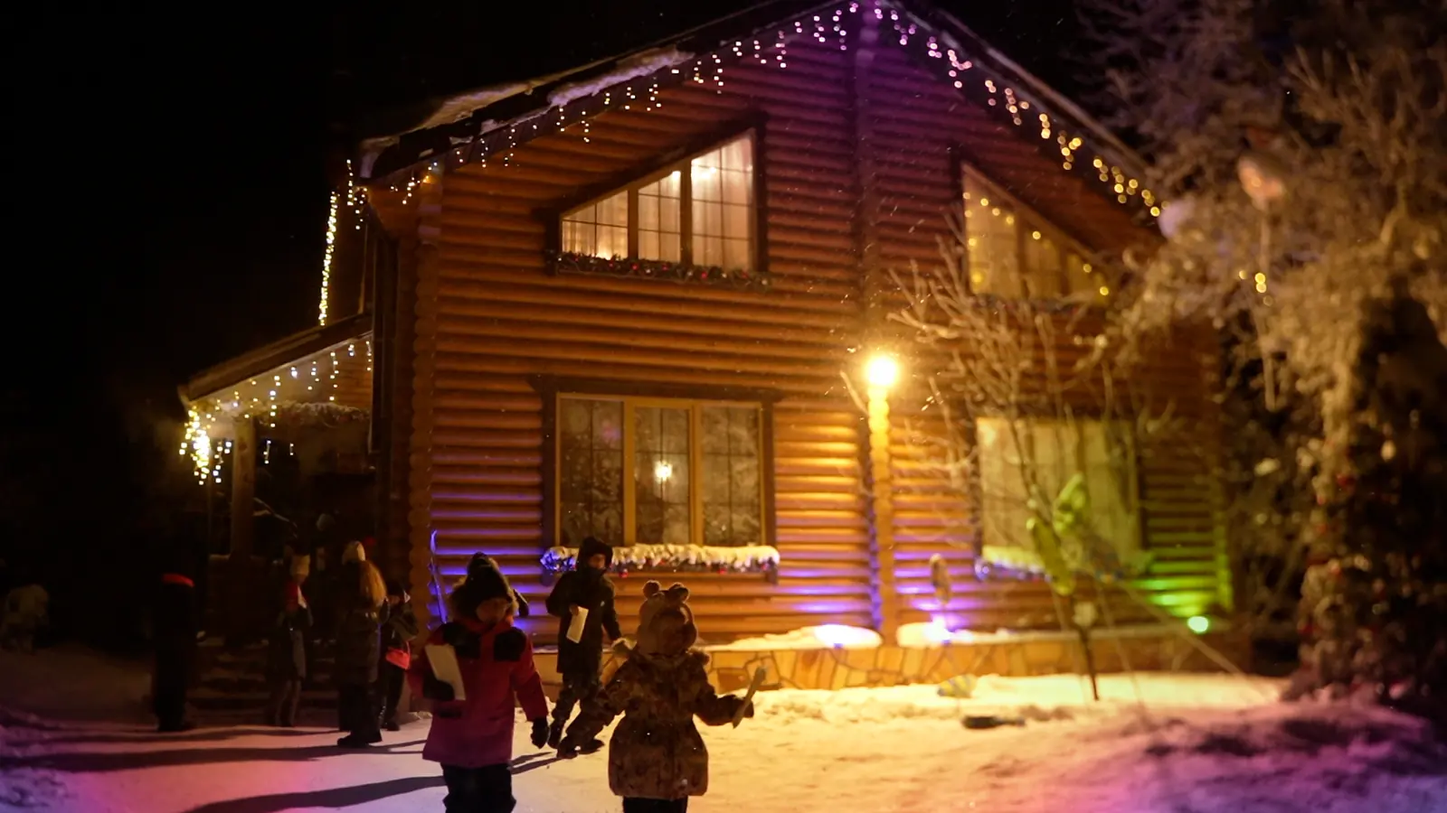
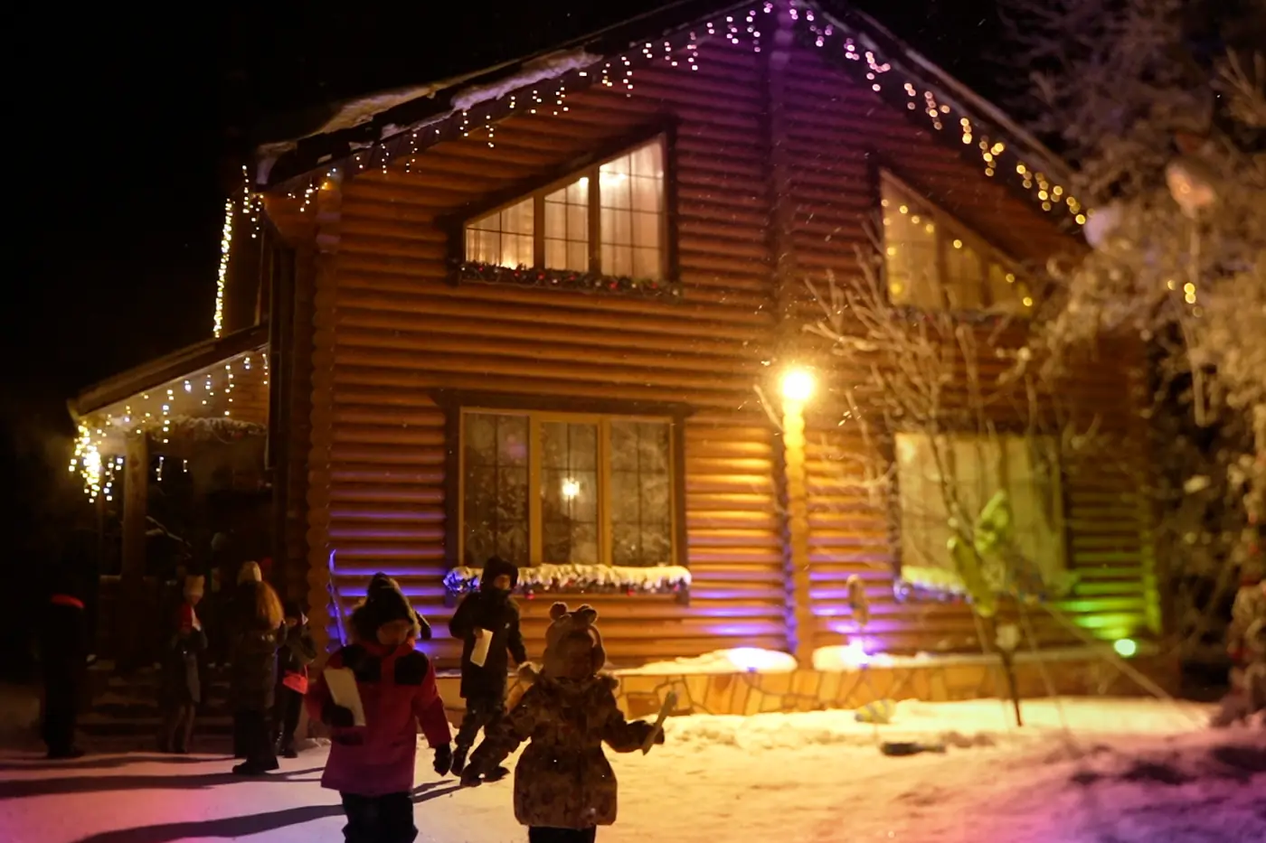
Экран 7: нулевой слайд стал обычной парой
Серёга добавил в папку «0 слайд» вторую фотографию — вывеску «Министерство
новогодних дел» в огнях. Слайд-исключение с единственным кадром больше
не нужен: нулевой идёт как все горизонтальные, по два кадра в ряд,
пропорция 3:2. Кадры — h00 и h00b.

Правила .kr-slide--solo и .kr-shot--solo остались в стилях на случай, если
одиночный слайд понадобится снова; data-fixed у нулевого сохранён, чтобы
телефонная пересборка не растащила его пару по разным слайдам.

Метка версии картинок поднята до v=10.

diff --git a/v2.html b/v2.html
@@ -2674,7 +2674,7 @@ html.zs-lock .nav{margin-right:var(--zs-sbw,0px)}
      прежними — браузер в этом случае показывает старую картинку из кеша,
      и параметр в адресе страницы тут не помогает: он относится только к HTML.
      Поэтому у каждого снимка в адресе стоит метка версии. МЕНЯЯ ФОТОГРАФИИ,
-     ПОДНИМИ ЧИСЛО СРАЗУ У ВСЕХ (v=8 -> v=9) — иначе Серёга увидит старое. -->
+     ПОДНИМИ ЧИСЛО СРАЗУ У ВСЕХ (v=9 -> v=10) — иначе Серёга увидит старое. -->
 <section class="cr kr" id="places" aria-labelledby="krT">
   <!-- Украшение, а не содержание: `aria-hidden` убирает шары из читалки. -->
   <div class="kr-balls" aria-hidden="true">
@@ -2694,72 +2694,73 @@ html.zs-lock .nav{margin-right:var(--zs-sbw,0px)}
 
     <div class="kr-view" id="krView" role="group" aria-roledescription="карусель" aria-label="Фотографии площадки">
       <div class="kr-strip" id="krStrip">
-        <div class="kr-slide kr-slide--hor kr-slide--solo" data-fixed="1">
-          <figure class="kr-shot kr-shot--hor kr-shot--solo" data-th="karus_v/hm00.webp?v=9"><img src="karus_v/h00.webp?v=9" width="1600" height="900" alt="Изба Министерства вечером: гости идут по снегу" loading="eager" decoding="async" sizes="(max-width:767px) 100vw, min(100vw, 1240px)" draggable="false"></figure>
+        <div class="kr-slide kr-slide--hor" data-fixed="1">
+          <figure class="kr-shot kr-shot--hor" data-th="karus_v/hm00.webp?v=10"><img src="karus_v/h00.webp?v=10" width="1400" height="933" alt="Изба Министерства вечером: гости идут по снегу" loading="eager" decoding="async" sizes="(max-width:767px) 100vw, min(50vw, 620px)" draggable="false"></figure>
+          <figure class="kr-shot kr-shot--hor" data-th="karus_v/hm00b.webp?v=10"><img src="karus_v/h00b.webp?v=10" width="1400" height="933" alt="Вывеска «Министерство новогодних дел» в огнях" loading="eager" decoding="async" sizes="(max-width:767px) 100vw, min(50vw, 620px)" draggable="false"></figure>
         </div>
         <div class="kr-slide">
-          <figure class="kr-shot" data-th="karus_v/m01.webp?v=9"><img src="karus_v/v01.webp?v=9" width="820" height="1230" alt="Изба в гирляндах: ёлка и скамейка у входа" loading="eager" decoding="async" sizes="(max-width:767px) 45vw, min(32vw, 400px)" draggable="false"></figure>
-          <figure class="kr-shot" data-th="karus_v/m02.webp?v=9"><img src="karus_v/v02.webp?v=9" width="820" height="1230" alt="Заснеженный двор с ёлками и снеговиком" loading="eager" decoding="async" sizes="(max-width:767px) 45vw, min(32vw, 400px)" draggable="false"></figure>
-          <figure class="kr-shot" data-th="karus_v/m03.webp?v=9"><img src="karus_v/v03.webp?v=9" width="820" height="1230" alt="Вывеска Министерства новогодних дел под гирляндами" loading="eager" decoding="async" sizes="(max-width:767px) 45vw, min(32vw, 400px)" draggable="false"></figure>
+          <figure class="kr-shot" data-th="karus_v/m01.webp?v=10"><img src="karus_v/v01.webp?v=10" width="820" height="1230" alt="Изба в гирляндах: ёлка и скамейка у входа" loading="lazy" decoding="async" sizes="(max-width:767px) 45vw, min(32vw, 400px)" draggable="false"></figure>
+          <figure class="kr-shot" data-th="karus_v/m02.webp?v=10"><img src="karus_v/v02.webp?v=10" width="820" height="1230" alt="Заснеженный двор с ёлками и снеговиком" loading="lazy" decoding="async" sizes="(max-width:767px) 45vw, min(32vw, 400px)" draggable="false"></figure>
+          <figure class="kr-shot" data-th="karus_v/m03.webp?v=10"><img src="karus_v/v03.webp?v=10" width="820" height="1230" alt="Вывеска Министерства новогодних дел под гирляндами" loading="lazy" decoding="async" sizes="(max-width:767px) 45vw, min(32vw, 400px)" draggable="false"></figure>
         </div>
         <div class="kr-slide">
-          <figure class="kr-shot" data-th="karus_v/m04.webp?v=9"><img src="karus_v/v04.webp?v=9" width="820" height="1230" alt="Гости у избы в вечерних огнях" loading="lazy" decoding="async" sizes="(max-width:767px) 45vw, min(32vw, 400px)" draggable="false"></figure>
-          <figure class="kr-shot" data-th="karus_v/m05.webp?v=9"><img src="karus_v/v05.webp?v=9" width="820" height="1230" alt="Ёлка у камина Министерства" loading="lazy" decoding="async" sizes="(max-width:767px) 45vw, min(32vw, 400px)" draggable="false"></figure>
-          <figure class="kr-shot" data-th="karus_v/m06.webp?v=9"><img src="karus_v/v06.webp?v=9" width="820" height="1230" alt="Зал со свечами перед началом" loading="lazy" decoding="async" sizes="(max-width:767px) 45vw, min(32vw, 400px)" draggable="false"></figure>
+          <figure class="kr-shot" data-th="karus_v/m04.webp?v=10"><img src="karus_v/v04.webp?v=10" width="820" height="1230" alt="Гости у избы в вечерних огнях" loading="lazy" decoding="async" sizes="(max-width:767px) 45vw, min(32vw, 400px)" draggable="false"></figure>
+          <figure class="kr-shot" data-th="karus_v/m05.webp?v=10"><img src="karus_v/v05.webp?v=10" width="820" height="1230" alt="Ёлка у камина Министерства" loading="lazy" decoding="async" sizes="(max-width:767px) 45vw, min(32vw, 400px)" draggable="false"></figure>
+          <figure class="kr-shot" data-th="karus_v/m06.webp?v=10"><img src="karus_v/v06.webp?v=10" width="820" height="1230" alt="Зал со свечами перед началом" loading="lazy" decoding="async" sizes="(max-width:767px) 45vw, min(32vw, 400px)" draggable="false"></figure>
         </div>
         <div class="kr-slide kr-slide--hor">
-          <figure class="kr-shot kr-shot--hor" data-th="karus_v/hm03.webp?v=9"><img src="karus_v/h03.webp?v=9" width="1400" height="933" alt="Стена писем Деду Морозу при свечах" loading="lazy" decoding="async" sizes="(max-width:767px) 100vw, min(50vw, 620px)" draggable="false"></figure>
-          <figure class="kr-shot kr-shot--hor" data-th="karus_v/hm04.webp?v=9"><img src="karus_v/h04.webp?v=9" width="1400" height="933" alt="Кабинет Министерства: полки, карты и письма" loading="lazy" decoding="async" sizes="(max-width:767px) 100vw, min(50vw, 620px)" draggable="false"></figure>
+          <figure class="kr-shot kr-shot--hor" data-th="karus_v/hm03.webp?v=10"><img src="karus_v/h03.webp?v=10" width="1400" height="933" alt="Стена писем Деду Морозу при свечах" loading="lazy" decoding="async" sizes="(max-width:767px) 100vw, min(50vw, 620px)" draggable="false"></figure>
+          <figure class="kr-shot kr-shot--hor" data-th="karus_v/hm04.webp?v=10"><img src="karus_v/h04.webp?v=10" width="1400" height="933" alt="Кабинет Министерства: полки, карты и письма" loading="lazy" decoding="async" sizes="(max-width:767px) 100vw, min(50vw, 620px)" draggable="false"></figure>
         </div>
         <div class="kr-slide kr-slide--hor">
-          <figure class="kr-shot kr-shot--hor" data-th="karus_v/hm01.webp?v=9"><img src="karus_v/h01.webp?v=9" width="1400" height="933" alt="Дом и дерево в цветной иллюминации" loading="lazy" decoding="async" sizes="(max-width:767px) 100vw, min(50vw, 620px)" draggable="false"></figure>
-          <figure class="kr-shot kr-shot--hor" data-th="karus_v/hm02.webp?v=9"><img src="karus_v/h02.webp?v=9" width="1400" height="933" alt="Ночной двор с подсветкой и фигурой у входа" loading="lazy" decoding="async" sizes="(max-width:767px) 100vw, min(50vw, 620px)" draggable="false"></figure>
+          <figure class="kr-shot kr-shot--hor" data-th="karus_v/hm01.webp?v=10"><img src="karus_v/h01.webp?v=10" width="1400" height="933" alt="Дом и дерево в цветной иллюминации" loading="lazy" decoding="async" sizes="(max-width:767px) 100vw, min(50vw, 620px)" draggable="false"></figure>
+          <figure class="kr-shot kr-shot--hor" data-th="karus_v/hm02.webp?v=10"><img src="karus_v/h02.webp?v=10" width="1400" height="933" alt="Ночной двор с подсветкой и фигурой у входа" loading="lazy" decoding="async" sizes="(max-width:767px) 100vw, min(50vw, 620px)" draggable="false"></figure>
         </div>
         <div class="kr-slide">
-          <figure class="kr-shot" data-th="karus_v/m07.webp?v=9"><img src="karus_v/v07.webp?v=9" width="820" height="1230" alt="Ёлка с игрушками и карамельными тростями" loading="lazy" decoding="async" sizes="(max-width:767px) 45vw, min(32vw, 400px)" draggable="false"></figure>
-          <figure class="kr-shot" data-th="karus_v/m08.webp?v=9"><img src="karus_v/v08.webp?v=9" width="820" height="1230" alt="Светящийся механизм в зелёном неоне" loading="lazy" decoding="async" sizes="(max-width:767px) 45vw, min(32vw, 400px)" draggable="false"></figure>
-          <figure class="kr-shot" data-th="karus_v/m09.webp?v=9"><img src="karus_v/v09.webp?v=9" width="820" height="1230" alt="Камин и куклы в тёплой комнате" loading="lazy" decoding="async" sizes="(max-width:767px) 45vw, min(32vw, 400px)" draggable="false"></figure>
+          <figure class="kr-shot" data-th="karus_v/m07.webp?v=10"><img src="karus_v/v07.webp?v=10" width="820" height="1230" alt="Ёлка с игрушками и карамельными тростями" loading="lazy" decoding="async" sizes="(max-width:767px) 45vw, min(32vw, 400px)" draggable="false"></figure>
+          <figure class="kr-shot" data-th="karus_v/m08.webp?v=10"><img src="karus_v/v08.webp?v=10" width="820" height="1230" alt="Светящийся механизм в зелёном неоне" loading="lazy" decoding="async" sizes="(max-width:767px) 45vw, min(32vw, 400px)" draggable="false"></figure>
+          <figure class="kr-shot" data-th="karus_v/m09.webp?v=10"><img src="karus_v/v09.webp?v=10" width="820" height="1230" alt="Камин и куклы в тёплой комнате" loading="lazy" decoding="async" sizes="(max-width:767px) 45vw, min(32vw, 400px)" draggable="false"></figure>
         </div>
         <div class="kr-slide">
-          <figure class="kr-shot" data-th="karus_v/m10.webp?v=9"><img src="karus_v/v10.webp?v=9" width="820" height="1230" alt="Пульт с экранами в бревенчатом зале" loading="lazy" decoding="async" sizes="(max-width:767px) 45vw, min(32vw, 400px)" draggable="false"></figure>
-          <figure class="kr-shot" data-th="karus_v/m11.webp?v=9"><img src="karus_v/v11.webp?v=9" width="820" height="1230" alt="Портреты в галерее Министерства" loading="lazy" decoding="async" sizes="(max-width:767px) 45vw, min(32vw, 400px)" draggable="false"></figure>
-          <figure class="kr-shot" data-th="karus_v/m12.webp?v=9"><img src="karus_v/v12.webp?v=9" width="820" height="1230" alt="Пульт с датами и кнопками" loading="lazy" decoding="async" sizes="(max-width:767px) 45vw, min(32vw, 400px)" draggable="false"></figure>
+          <figure class="kr-shot" data-th="karus_v/m10.webp?v=10"><img src="karus_v/v10.webp?v=10" width="820" height="1230" alt="Пульт с экранами в бревенчатом зале" loading="lazy" decoding="async" sizes="(max-width:767px) 45vw, min(32vw, 400px)" draggable="false"></figure>
+          <figure class="kr-shot" data-th="karus_v/m11.webp?v=10"><img src="karus_v/v11.webp?v=10" width="820" height="1230" alt="Портреты в галерее Министерства" loading="lazy" decoding="async" sizes="(max-width:767px) 45vw, min(32vw, 400px)" draggable="false"></figure>
+          <figure class="kr-shot" data-th="karus_v/m12.webp?v=10"><img src="karus_v/v12.webp?v=10" width="820" height="1230" alt="Пульт с датами и кнопками" loading="lazy" decoding="async" sizes="(max-width:767px) 45vw, min(32vw, 400px)" draggable="false"></figure>
         </div>
         <div class="kr-slide">
-          <figure class="kr-shot" data-th="karus_v/m13.webp?v=9"><img src="karus_v/v13.webp?v=9" width="820" height="1230" alt="Полка с книгами и керосиновой лампой" loading="lazy" decoding="async" sizes="(max-width:767px) 45vw, min(32vw, 400px)" draggable="false"></figure>
-          <figure class="kr-shot" data-th="karus_v/m14.webp?v=9"><img src="karus_v/v14.webp?v=9" width="820" height="1230" alt="Стена со старыми газетами" loading="lazy" decoding="async" sizes="(max-width:767px) 45vw, min(32vw, 400px)" draggable="false"></figure>
-          <figure class="kr-shot" data-th="karus_v/m15.webp?v=9"><img src="karus_v/v15.webp?v=9" width="820" height="1230" alt="Вырезки и карта на стене" loading="lazy" decoding="async" sizes="(max-width:767px) 45vw, min(32vw, 400px)" draggable="false"></figure>
+          <figure class="kr-shot" data-th="karus_v/m13.webp?v=10"><img src="karus_v/v13.webp?v=10" width="820" height="1230" alt="Полка с книгами и керосиновой лампой" loading="lazy" decoding="async" sizes="(max-width:767px) 45vw, min(32vw, 400px)" draggable="false"></figure>
+          <figure class="kr-shot" data-th="karus_v/m14.webp?v=10"><img src="karus_v/v14.webp?v=10" width="820" height="1230" alt="Стена со старыми газетами" loading="lazy" decoding="async" sizes="(max-width:767px) 45vw, min(32vw, 400px)" draggable="false"></figure>
+          <figure class="kr-shot" data-th="karus_v/m15.webp?v=10"><img src="karus_v/v15.webp?v=10" width="820" height="1230" alt="Вырезки и карта на стене" loading="lazy" decoding="async" sizes="(max-width:767px) 45vw, min(32vw, 400px)" draggable="false"></figure>
         </div>
         <div class="kr-slide kr-slide--hor">
-          <figure class="kr-shot kr-shot--hor" data-th="karus_v/hm05.webp?v=9"><img src="karus_v/h05.webp?v=9" width="1400" height="933" alt="Волшебники встречают гостей на крыльце" loading="lazy" decoding="async" sizes="(max-width:767px) 100vw, min(50vw, 620px)" draggable="false"></figure>
-          <figure class="kr-shot kr-shot--hor" data-th="karus_v/hm06.webp?v=9"><img src="karus_v/h06.webp?v=9" width="1400" height="933" alt="Представление в бревенчатом зале" loading="lazy" decoding="async" sizes="(max-width:767px) 100vw, min(50vw, 620px)" draggable="false"></figure>
+          <figure class="kr-shot kr-shot--hor" data-th="karus_v/hm05.webp?v=10"><img src="karus_v/h05.webp?v=10" width="1400" height="933" alt="Волшебники встречают гостей на крыльце" loading="lazy" decoding="async" sizes="(max-width:767px) 100vw, min(50vw, 620px)" draggable="false"></figure>
+          <figure class="kr-shot kr-shot--hor" data-th="karus_v/hm06.webp?v=10"><img src="karus_v/h06.webp?v=10" width="1400" height="933" alt="Представление в бревенчатом зале" loading="lazy" decoding="async" sizes="(max-width:767px) 100vw, min(50vw, 620px)" draggable="false"></figure>
         </div>
         <div class="kr-slide">
-          <figure class="kr-shot" data-th="karus_v/m16.webp?v=9"><img src="karus_v/v16.webp?v=9" width="820" height="1230" alt="Галерея портретов" loading="lazy" decoding="async" sizes="(max-width:767px) 45vw, min(32vw, 400px)" draggable="false"></figure>
-          <figure class="kr-shot" data-th="karus_v/m17.webp?v=9"><img src="karus_v/v17.webp?v=9" width="820" height="1230" alt="Пульт Министерства новогодних дел" loading="lazy" decoding="async" sizes="(max-width:767px) 45vw, min(32vw, 400px)" draggable="false"></figure>
-          <figure class="kr-shot" data-th="karus_v/m18.webp?v=9"><img src="karus_v/v18.webp?v=9" width="820" height="1230" alt="Дед Мороз читает письмо ребёнку" loading="lazy" decoding="async" sizes="(max-width:767px) 45vw, min(32vw, 400px)" draggable="false"></figure>
+          <figure class="kr-shot" data-th="karus_v/m16.webp?v=10"><img src="karus_v/v16.webp?v=10" width="820" height="1230" alt="Галерея портретов" loading="lazy" decoding="async" sizes="(max-width:767px) 45vw, min(32vw, 400px)" draggable="false"></figure>
+          <figure class="kr-shot" data-th="karus_v/m17.webp?v=10"><img src="karus_v/v17.webp?v=10" width="820" height="1230" alt="Пульт Министерства новогодних дел" loading="lazy" decoding="async" sizes="(max-width:767px) 45vw, min(32vw, 400px)" draggable="false"></figure>
+          <figure class="kr-shot" data-th="karus_v/m18.webp?v=10"><img src="karus_v/v18.webp?v=10" width="820" height="1230" alt="Дед Мороз читает письмо ребёнку" loading="lazy" decoding="async" sizes="(max-width:767px) 45vw, min(32vw, 400px)" draggable="false"></figure>
         </div>
         <div class="kr-slide kr-slide--hor">
-          <figure class="kr-shot kr-shot--hor" data-th="karus_v/hm07.webp?v=9"><img src="karus_v/h07.webp?v=9" width="1400" height="933" alt="Витрина со старыми газетами" loading="lazy" decoding="async" sizes="(max-width:767px) 100vw, min(50vw, 620px)" draggable="false"></figure>
-          <figure class="kr-shot kr-shot--hor" data-th="karus_v/hm08.webp?v=9"><img src="karus_v/h08.webp?v=9" width="1400" height="933" alt="Мастерская: инструменты на стене" loading="lazy" decoding="async" sizes="(max-width:767px) 100vw, min(50vw, 620px)" draggable="false"></figure>
+          <figure class="kr-shot kr-shot--hor" data-th="karus_v/hm07.webp?v=10"><img src="karus_v/h07.webp?v=10" width="1400" height="933" alt="Витрина со старыми газетами" loading="lazy" decoding="async" sizes="(max-width:767px) 100vw, min(50vw, 620px)" draggable="false"></figure>
+          <figure class="kr-shot kr-shot--hor" data-th="karus_v/hm08.webp?v=10"><img src="karus_v/h08.webp?v=10" width="1400" height="933" alt="Мастерская: инструменты на стене" loading="lazy" decoding="async" sizes="(max-width:767px) 100vw, min(50vw, 620px)" draggable="false"></figure>
         </div>
         <div class="kr-slide">
-          <figure class="kr-shot" data-th="karus_v/m19.webp?v=9"><img src="karus_v/v19.webp?v=9" width="820" height="1230" alt="Светящаяся вывеска «Дед Мороз»" loading="lazy" decoding="async" sizes="(max-width:767px) 45vw, min(32vw, 400px)" draggable="false"></figure>
-          <figure class="kr-shot" data-th="karus_v/m20.webp?v=9"><img src="karus_v/v20.webp?v=9" width="820" height="1230" alt="Часовщица встречает гостей" loading="lazy" decoding="async" sizes="(max-width:767px) 45vw, min(32vw, 400px)" draggable="false"></figure>
-          <figure class="kr-shot" data-th="karus_v/m21.webp?v=9"><img src="karus_v/v21.webp?v=9" width="820" height="1230" alt="Письмо Деду Морозу и книги" loading="lazy" decoding="async" sizes="(max-width:767px) 45vw, min(32vw, 400px)" draggable="false"></figure>
+          <figure class="kr-shot" data-th="karus_v/m19.webp?v=10"><img src="karus_v/v19.webp?v=10" width="820" height="1230" alt="Светящаяся вывеска «Дед Мороз»" loading="lazy" decoding="async" sizes="(max-width:767px) 45vw, min(32vw, 400px)" draggable="false"></figure>
+          <figure class="kr-shot" data-th="karus_v/m20.webp?v=10"><img src="karus_v/v20.webp?v=10" width="820" height="1230" alt="Часовщица встречает гостей" loading="lazy" decoding="async" sizes="(max-width:767px) 45vw, min(32vw, 400px)" draggable="false"></figure>
+          <figure class="kr-shot" data-th="karus_v/m21.webp?v=10"><img src="karus_v/v21.webp?v=10" width="820" height="1230" alt="Письмо Деду Морозу и книги" loading="lazy" decoding="async" sizes="(max-width:767px) 45vw, min(32vw, 400px)" draggable="false"></figure>
         </div>
         <div class="kr-slide kr-slide--hor">
-          <figure class="kr-shot kr-shot--hor" data-th="karus_v/hm09.webp?v=9"><img src="karus_v/h09.webp?v=9" width="1400" height="933" alt="Светящийся стол в зелёном неоне" loading="lazy" decoding="async" sizes="(max-width:767px) 100vw, min(50vw, 620px)" draggable="false"></figure>
-          <figure class="kr-shot kr-shot--hor" data-th="karus_v/hm10.webp?v=9"><img src="karus_v/h10.webp?v=9" width="1400" height="933" alt="Зал при свечах в лиловом свете" loading="lazy" decoding="async" sizes="(max-width:767px) 100vw, min(50vw, 620px)" draggable="false"></figure>
+          <figure class="kr-shot kr-shot--hor" data-th="karus_v/hm09.webp?v=10"><img src="karus_v/h09.webp?v=10" width="1400" height="933" alt="Светящийся стол в зелёном неоне" loading="lazy" decoding="async" sizes="(max-width:767px) 100vw, min(50vw, 620px)" draggable="false"></figure>
+          <figure class="kr-shot kr-shot--hor" data-th="karus_v/hm10.webp?v=10"><img src="karus_v/h10.webp?v=10" width="1400" height="933" alt="Зал при свечах в лиловом свете" loading="lazy" decoding="async" sizes="(max-width:767px) 100vw, min(50vw, 620px)" draggable="false"></figure>
         </div>
         <div class="kr-slide">
-          <figure class="kr-shot" data-th="karus_v/m22.webp?v=9"><img src="karus_v/v22.webp?v=9" width="820" height="1230" alt="Зал управления Министерства" loading="lazy" decoding="async" sizes="(max-width:767px) 45vw, min(32vw, 400px)" draggable="false"></figure>
-          <figure class="kr-shot" data-th="karus_v/m23.webp?v=9"><img src="karus_v/v23.webp?v=9" width="820" height="1230" alt="Карамельный мастер-класс" loading="lazy" decoding="async" sizes="(max-width:767px) 45vw, min(32vw, 400px)" draggable="false"></figure>
-          <figure class="kr-shot" data-th="karus_v/m24.webp?v=9"><img src="karus_v/v24.webp?v=9" width="820" height="1230" alt="Пульт и ёлка в бревенчатом зале" loading="lazy" decoding="async" sizes="(max-width:767px) 45vw, min(32vw, 400px)" draggable="false"></figure>
+          <figure class="kr-shot" data-th="karus_v/m22.webp?v=10"><img src="karus_v/v22.webp?v=10" width="820" height="1230" alt="Зал управления Министерства" loading="lazy" decoding="async" sizes="(max-width:767px) 45vw, min(32vw, 400px)" draggable="false"></figure>
+          <figure class="kr-shot" data-th="karus_v/m23.webp?v=10"><img src="karus_v/v23.webp?v=10" width="820" height="1230" alt="Карамельный мастер-класс" loading="lazy" decoding="async" sizes="(max-width:767px) 45vw, min(32vw, 400px)" draggable="false"></figure>
+          <figure class="kr-shot" data-th="karus_v/m24.webp?v=10"><img src="karus_v/v24.webp?v=10" width="820" height="1230" alt="Пульт и ёлка в бревенчатом зале" loading="lazy" decoding="async" sizes="(max-width:767px) 45vw, min(32vw, 400px)" draggable="false"></figure>
         </div>
         <div class="kr-slide kr-slide--hor">
-          <figure class="kr-shot kr-shot--hor" data-th="karus_v/hm11.webp?v=9"><img src="karus_v/h11.webp?v=9" width="1400" height="933" alt="Светящаяся стена под ультрафиолетом" loading="lazy" decoding="async" sizes="(max-width:767px) 100vw, min(50vw, 620px)" draggable="false"></figure>
-          <figure class="kr-shot kr-shot--hor" data-th="karus_v/hm12.webp?v=9"><img src="karus_v/h12.webp?v=9" width="1400" height="933" alt="Общий кадр с Дедом Морозом у ёлки" loading="lazy" decoding="async" sizes="(max-width:767px) 100vw, min(50vw, 620px)" draggable="false"></figure>
+          <figure class="kr-shot kr-shot--hor" data-th="karus_v/hm11.webp?v=10"><img src="karus_v/h11.webp?v=10" width="1400" height="933" alt="Светящаяся стена под ультрафиолетом" loading="lazy" decoding="async" sizes="(max-width:767px) 100vw, min(50vw, 620px)" draggable="false"></figure>
+          <figure class="kr-shot kr-shot--hor" data-th="karus_v/hm12.webp?v=10"><img src="karus_v/h12.webp?v=10" width="1400" height="933" alt="Общий кадр с Дедом Морозом у ёлки" loading="lazy" decoding="async" sizes="(max-width:767px) 100vw, min(50vw, 620px)" draggable="false"></figure>
         </div>
       </div>
 
@@ -2774,43 +2775,44 @@ html.zs-lock .nav{margin-right:var(--zs-sbw,0px)}
     </div>
 
     <div class="kr-thumbs" id="krThumbs" aria-label="Кадры площадки">
-      <button class="kr-th kr-th--hor kr-th--solo is-on" type="button" data-i="0" aria-label="Слайд 1: Изба Министерства вечером: гости идут по снегу"><img src="karus_v/hm00.webp?v=9" width="320" height="180" alt="" loading="eager" decoding="async" draggable="false"></button>
-      <button class="kr-th" type="button" data-i="1" aria-label="Слайд 2: Изба в гирляндах: ёлка и скамейка у входа"><img src="karus_v/m01.webp?v=9" width="220" height="330" alt="" loading="eager" decoding="async" draggable="false"></button>
-      <button class="kr-th" type="button" data-i="1" aria-label="Слайд 2: Заснеженный двор с ёлками и снеговиком"><img src="karus_v/m02.webp?v=9" width="220" height="330" alt="" loading="eager" decoding="async" draggable="false"></button>
-      <button class="kr-th" type="button" data-i="1" aria-label="Слайд 2: Вывеска Министерства новогодних дел под гирляндами"><img src="karus_v/m03.webp?v=9" width="220" height="330" alt="" loading="eager" decoding="async" draggable="false"></button>
-      <button class="kr-th" type="button" data-i="2" aria-label="Слайд 3: Гости у избы в вечерних огнях"><img src="karus_v/m04.webp?v=9" width="220" height="330" alt="" loading="lazy" decoding="async" draggable="false"></button>
-      <button class="kr-th" type="button" data-i="2" aria-label="Слайд 3: Ёлка у камина Министерства"><img src="karus_v/m05.webp?v=9" width="220" height="330" alt="" loading="lazy" decoding="async" draggable="false"></button>
-      <button class="kr-th" type="button" data-i="2" aria-label="Слайд 3: Зал со свечами перед началом"><img src="karus_v/m06.webp?v=9" width="220" height="330" alt="" loading="lazy" decoding="async" draggable="false"></button>
-      <button class="kr-th kr-th--hor" type="button" data-i="3" aria-label="Слайд 4: Стена писем Деду Морозу при свечах"><img src="karus_v/hm03.webp?v=9" width="300" height="200" alt="" loading="lazy" decoding="async" draggable="false"></button>
-      <button class="kr-th kr-th--hor" type="button" data-i="3" aria-label="Слайд 4: Кабинет Министерства: полки, карты и письма"><img src="karus_v/hm04.webp?v=9" width="300" height="200" alt="" loading="lazy" decoding="async" draggable="false"></button>
-      <button class="kr-th kr-th--hor" type="button" data-i="4" aria-label="Слайд 5: Дом и дерево в цветной иллюминации"><img src="karus_v/hm01.webp?v=9" width="300" height="200" alt="" loading="lazy" decoding="async" draggable="false"></button>
-      <button class="kr-th kr-th--hor" type="button" data-i="4" aria-label="Слайд 5: Ночной двор с подсветкой и фигурой у входа"><img src="karus_v/hm02.webp?v=9" width="300" height="200" alt="" loading="lazy" decoding="async" draggable="false"></button>
-      <button class="kr-th" type="button" data-i="5" aria-label="Слайд 6: Ёлка с игрушками и карамельными тростями"><img src="karus_v/m07.webp?v=9" width="220" height="330" alt="" loading="lazy" decoding="async" draggable="false"></button>
-      <button class="kr-th" type="button" data-i="5" aria-label="Слайд 6: Светящийся механизм в зелёном неоне"><img src="karus_v/m08.webp?v=9" width="220" height="330" alt="" loading="lazy" decoding="async" draggable="false"></button>
-      <button class="kr-th" type="button" data-i="5" aria-label="Слайд 6: Камин и куклы в тёплой комнате"><img src="karus_v/m09.webp?v=9" width="220" height="330" alt="" loading="lazy" decoding="async" draggable="false"></button>
-      <button class="kr-th" type="button" data-i="6" aria-label="Слайд 7: Пульт с экранами в бревенчатом зале"><img src="karus_v/m10.webp?v=9" width="220" height="330" alt="" loading="lazy" decoding="async" draggable="false"></button>
-      <button class="kr-th" type="button" data-i="6" aria-label="Слайд 7: Портреты в галерее Министерства"><img src="karus_v/m11.webp?v=9" width="220" height="330" alt="" loading="lazy" decoding="async" draggable="false"></button>
-      <button class="kr-th" type="button" data-i="6" aria-label="Слайд 7: Пульт с датами и кнопками"><img src="karus_v/m12.webp?v=9" width="220" height="330" alt="" loading="lazy" decoding="async" draggable="false"></button>
-      <button class="kr-th" type="button" data-i="7" aria-label="Слайд 8: Полка с книгами и керосиновой лампой"><img src="karus_v/m13.webp?v=9" width="220" height="330" alt="" loading="lazy" decoding="async" draggable="false"></button>
-      <button class="kr-th" type="button" data-i="7" aria-label="Слайд 8: Стена со старыми газетами"><img src="karus_v/m14.webp?v=9" width="220" height="330" alt="" loading="lazy" decoding="async" draggable="false"></button>
-      <button class="kr-th" type="button" data-i="7" aria-label="Слайд 8: Вырезки и карта на стене"><img src="karus_v/m15.webp?v=9" width="220" height="330" alt="" loading="lazy" decoding="async" draggable="false"></button>
-      <button class="kr-th kr-th--hor" type="button" data-i="8" aria-label="Слайд 9: Волшебники встречают гостей на крыльце"><img src="karus_v/hm05.webp?v=9" width="300" height="200" alt="" loading="lazy" decoding="async" draggable="false"></button>
-      <button class="kr-th kr-th--hor" type="button" data-i="8" aria-label="Слайд 9: Представление в бревенчатом зале"><img src="karus_v/hm06.webp?v=9" width="300" height="200" alt="" loading="lazy" decoding="async" draggable="false"></button>
-      <button class="kr-th" type="button" data-i="9" aria-label="Слайд 10: Галерея портретов"><img src="karus_v/m16.webp?v=9" width="220" height="330" alt="" loading="lazy" decoding="async" draggable="false"></button>
-      <button class="kr-th" type="button" data-i="9" aria-label="Слайд 10: Пульт Министерства новогодних дел"><img src="karus_v/m17.webp?v=9" width="220" height="330" alt="" loading="lazy" decoding="async" draggable="false"></button>
-      <button class="kr-th" type="button" data-i="9" aria-label="Слайд 10: Дед Мороз читает письмо ребёнку"><img src="karus_v/m18.webp?v=9" width="220" height="330" alt="" loading="lazy" decoding="async" draggable="false"></button>
-      <button class="kr-th kr-th--hor" type="button" data-i="10" aria-label="Слайд 11: Витрина со старыми газетами"><img src="karus_v/hm07.webp?v=9" width="300" height="200" alt="" loading="lazy" decoding="async" draggable="false"></button>
-      <button class="kr-th kr-th--hor" type="button" data-i="10" aria-label="Слайд 11: Мастерская: инструменты на стене"><img src="karus_v/hm08.webp?v=9" width="300" height="200" alt="" loading="lazy" decoding="async" draggable="false"></button>
-      <button class="kr-th" type="button" data-i="11" aria-label="Слайд 12: Светящаяся вывеска «Дед Мороз»"><img src="karus_v/m19.webp?v=9" width="220" height="330" alt="" loading="lazy" decoding="async" draggable="false"></button>
-      <button class="kr-th" type="button" data-i="11" aria-label="Слайд 12: Часовщица встречает гостей"><img src="karus_v/m20.webp?v=9" width="220" height="330" alt="" loading="lazy" decoding="async" draggable="false"></button>
-      <button class="kr-th" type="button" data-i="11" aria-label="Слайд 12: Письмо Деду Морозу и книги"><img src="karus_v/m21.webp?v=9" width="220" height="330" alt="" loading="lazy" decoding="async" draggable="false"></button>
-      <button class="kr-th kr-th--hor" type="button" data-i="12" aria-label="Слайд 13: Светящийся стол в зелёном неоне"><img src="karus_v/hm09.webp?v=9" width="300" height="200" alt="" loading="lazy" decoding="async" draggable="false"></button>
-      <button class="kr-th kr-th--hor" type="button" data-i="12" aria-label="Слайд 13: Зал при свечах в лиловом свете"><img src="karus_v/hm10.webp?v=9" width="300" height="200" alt="" loading="lazy" decoding="async" draggable="false"></button>
-      <button class="kr-th" type="button" data-i="13" aria-label="Слайд 14: Зал управления Министерства"><img src="karus_v/m22.webp?v=9" width="220" height="330" alt="" loading="lazy" decoding="async" draggable="false"></button>
-      <button class="kr-th" type="button" data-i="13" aria-label="Слайд 14: Карамельный мастер-класс"><img src="karus_v/m23.webp?v=9" width="220" height="330" alt="" loading="lazy" decoding="async" draggable="false"></button>
-      <button class="kr-th" type="button" data-i="13" aria-label="Слайд 14: Пульт и ёлка в бревенчатом зале"><img src="karus_v/m24.webp?v=9" width="220" height="330" alt="" loading="lazy" decoding="async" draggable="false"></button>
-      <button class="kr-th kr-th--hor" type="button" data-i="14" aria-label="Слайд 15: Светящаяся стена под ультрафиолетом"><img src="karus_v/hm11.webp?v=9" width="300" height="200" alt="" loading="lazy" decoding="async" draggable="false"></button>
-      <button class="kr-th kr-th--hor" type="button" data-i="14" aria-label="Слайд 15: Общий кадр с Дедом Морозом у ёлки"><img src="karus_v/hm12.webp?v=9" width="300" height="200" alt="" loading="lazy" decoding="async" draggable="false"></button>
+      <button class="kr-th kr-th--hor is-on" type="button" data-i="0" aria-label="Слайд 1: Изба Министерства вечером: гости идут по снегу"><img src="karus_v/hm00.webp?v=10" width="300" height="200" alt="" loading="eager" decoding="async" draggable="false"></button>
+      <button class="kr-th kr-th--hor is-on" type="button" data-i="0" aria-label="Слайд 1: Вывеска «Министерство новогодних дел» в огнях"><img src="karus_v/hm00b.webp?v=10" width="300" height="200" alt="" loading="eager" decoding="async" draggable="false"></button>
+      <button class="kr-th" type="button" data-i="1" aria-label="Слайд 2: Изба в гирляндах: ёлка и скамейка у входа"><img src="karus_v/m01.webp?v=10" width="220" height="330" alt="" loading="lazy" decoding="async" draggable="false"></button>
+      <button class="kr-th" type="button" data-i="1" aria-label="Слайд 2: Заснеженный двор с ёлками и снеговиком"><img src="karus_v/m02.webp?v=10" width="220" height="330" alt="" loading="lazy" decoding="async" draggable="false"></button>
+      <button class="kr-th" type="button" data-i="1" aria-label="Слайд 2: Вывеска Министерства новогодних дел под гирляндами"><img src="karus_v/m03.webp?v=10" width="220" height="330" alt="" loading="lazy" decoding="async" draggable="false"></button>
+      <button class="kr-th" type="button" data-i="2" aria-label="Слайд 3: Гости у избы в вечерних огнях"><img src="karus_v/m04.webp?v=10" width="220" height="330" alt="" loading="lazy" decoding="async" draggable="false"></button>
+      <button class="kr-th" type="button" data-i="2" aria-label="Слайд 3: Ёлка у камина Министерства"><img src="karus_v/m05.webp?v=10" width="220" height="330" alt="" loading="lazy" decoding="async" draggable="false"></button>
+      <button class="kr-th" type="button" data-i="2" aria-label="Слайд 3: Зал со свечами перед началом"><img src="karus_v/m06.webp?v=10" width="220" height="330" alt="" loading="lazy" decoding="async" draggable="false"></button>
+      <button class="kr-th kr-th--hor" type="button" data-i="3" aria-label="Слайд 4: Стена писем Деду Морозу при свечах"><img src="karus_v/hm03.webp?v=10" width="300" height="200" alt="" loading="lazy" decoding="async" draggable="false"></button>
+      <button class="kr-th kr-th--hor" type="button" data-i="3" aria-label="Слайд 4: Кабинет Министерства: полки, карты и письма"><img src="karus_v/hm04.webp?v=10" width="300" height="200" alt="" loading="lazy" decoding="async" draggable="false"></button>
+      <button class="kr-th kr-th--hor" type="button" data-i="4" aria-label="Слайд 5: Дом и дерево в цветной иллюминации"><img src="karus_v/hm01.webp?v=10" width="300" height="200" alt="" loading="lazy" decoding="async" draggable="false"></button>
+      <button class="kr-th kr-th--hor" type="button" data-i="4" aria-label="Слайд 5: Ночной двор с подсветкой и фигурой у входа"><img src="karus_v/hm02.webp?v=10" width="300" height="200" alt="" loading="lazy" decoding="async" draggable="false"></button>
+      <button class="kr-th" type="button" data-i="5" aria-label="Слайд 6: Ёлка с игрушками и карамельными тростями"><img src="karus_v/m07.webp?v=10" width="220" height="330" alt="" loading="lazy" decoding="async" draggable="false"></button>
+      <button class="kr-th" type="button" data-i="5" aria-label="Слайд 6: Светящийся механизм в зелёном неоне"><img src="karus_v/m08.webp?v=10" width="220" height="330" alt="" loading="lazy" decoding="async" draggable="false"></button>
+      <button class="kr-th" type="button" data-i="5" aria-label="Слайд 6: Камин и куклы в тёплой комнате"><img src="karus_v/m09.webp?v=10" width="220" height="330" alt="" loading="lazy" decoding="async" draggable="false"></button>
+      <button class="kr-th" type="button" data-i="6" aria-label="Слайд 7: Пульт с экранами в бревенчатом зале"><img src="karus_v/m10.webp?v=10" width="220" height="330" alt="" loading="lazy" decoding="async" draggable="false"></button>
+      <button class="kr-th" type="button" data-i="6" aria-label="Слайд 7: Портреты в галерее Министерства"><img src="karus_v/m11.webp?v=10" width="220" height="330" alt="" loading="lazy" decoding="async" draggable="false"></button>
+      <button class="kr-th" type="button" data-i="6" aria-label="Слайд 7: Пульт с датами и кнопками"><img src="karus_v/m12.webp?v=10" width="220" height="330" alt="" loading="lazy" decoding="async" draggable="false"></button>
+      <button class="kr-th" type="button" data-i="7" aria-label="Слайд 8: Полка с книгами и керосиновой лампой"><img src="karus_v/m13.webp?v=10" width="220" height="330" alt="" loading="lazy" decoding="async" draggable="false"></button>
+      <button class="kr-th" type="button" data-i="7" aria-label="Слайд 8: Стена со старыми газетами"><img src="karus_v/m14.webp?v=10" width="220" height="330" alt="" loading="lazy" decoding="async" draggable="false"></button>
+      <button class="kr-th" type="button" data-i="7" aria-label="Слайд 8: Вырезки и карта на стене"><img src="karus_v/m15.webp?v=10" width="220" height="330" alt="" loading="lazy" decoding="async" draggable="false"></button>
+      <button class="kr-th kr-th--hor" type="button" data-i="8" aria-label="Слайд 9: Волшебники встречают гостей на крыльце"><img src="karus_v/hm05.webp?v=10" width="300" height="200" alt="" loading="lazy" decoding="async" draggable="false"></button>
+      <button class="kr-th kr-th--hor" type="button" data-i="8" aria-label="Слайд 9: Представление в бревенчатом зале"><img src="karus_v/hm06.webp?v=10" width="300" height="200" alt="" loading="lazy" decoding="async" draggable="false"></button>
+      <button class="kr-th" type="button" data-i="9" aria-label="Слайд 10: Галерея портретов"><img src="karus_v/m16.webp?v=10" width="220" height="330" alt="" loading="lazy" decoding="async" draggable="false"></button>
+      <button class="kr-th" type="button" data-i="9" aria-label="Слайд 10: Пульт Министерства новогодних дел"><img src="karus_v/m17.webp?v=10" width="220" height="330" alt="" loading="lazy" decoding="async" draggable="false"></button>
+      <button class="kr-th" type="button" data-i="9" aria-label="Слайд 10: Дед Мороз читает письмо ребёнку"><img src="karus_v/m18.webp?v=10" width="220" height="330" alt="" loading="lazy" decoding="async" draggable="false"></button>
+      <button class="kr-th kr-th--hor" type="button" data-i="10" aria-label="Слайд 11: Витрина со старыми газетами"><img src="karus_v/hm07.webp?v=10" width="300" height="200" alt="" loading="lazy" decoding="async" draggable="false"></button>
+      <button class="kr-th kr-th--hor" type="button" data-i="10" aria-label="Слайд 11: Мастерская: инструменты на стене"><img src="karus_v/hm08.webp?v=10" width="300" height="200" alt="" loading="lazy" decoding="async" draggable="false"></button>
+      <button class="kr-th" type="button" data-i="11" aria-label="Слайд 12: Светящаяся вывеска «Дед Мороз»"><img src="karus_v/m19.webp?v=10" width="220" height="330" alt="" loading="lazy" decoding="async" draggable="false"></button>
+      <button class="kr-th" type="button" data-i="11" aria-label="Слайд 12: Часовщица встречает гостей"><img src="karus_v/m20.webp?v=10" width="220" height="330" alt="" loading="lazy" decoding="async" draggable="false"></button>
+      <button class="kr-th" type="button" data-i="11" aria-label="Слайд 12: Письмо Деду Морозу и книги"><img src="karus_v/m21.webp?v=10" width="220" height="330" alt="" loading="lazy" decoding="async" draggable="false"></button>
+      <button class="kr-th kr-th--hor" type="button" data-i="12" aria-label="Слайд 13: Светящийся стол в зелёном неоне"><img src="karus_v/hm09.webp?v=10" width="300" height="200" alt="" loading="lazy" decoding="async" draggable="false"></button>
+      <button class="kr-th kr-th--hor" type="button" data-i="12" aria-label="Слайд 13: Зал при свечах в лиловом свете"><img src="karus_v/hm10.webp?v=10" width="300" height="200" alt="" loading="lazy" decoding="async" draggable="false"></button>
+      <button class="kr-th" type="button" data-i="13" aria-label="Слайд 14: Зал управления Министерства"><img src="karus_v/m22.webp?v=10" width="220" height="330" alt="" loading="lazy" decoding="async" draggable="false"></button>
+      <button class="kr-th" type="button" data-i="13" aria-label="Слайд 14: Карамельный мастер-класс"><img src="karus_v/m23.webp?v=10" width="220" height="330" alt="" loading="lazy" decoding="async" draggable="false"></button>
+      <button class="kr-th" type="button" data-i="13" aria-label="Слайд 14: Пульт и ёлка в бревенчатом зале"><img src="karus_v/m24.webp?v=10" width="220" height="330" alt="" loading="lazy" decoding="async" draggable="false"></button>
+      <button class="kr-th kr-th--hor" type="button" data-i="14" aria-label="Слайд 15: Светящаяся стена под ультрафиолетом"><img src="karus_v/hm11.webp?v=10" width="300" height="200" alt="" loading="lazy" decoding="async" draggable="false"></button>
+      <button class="kr-th kr-th--hor" type="button" data-i="14" aria-label="Слайд 15: Общий кадр с Дедом Морозом у ёлки"><img src="karus_v/hm12.webp?v=10" width="300" height="200" alt="" loading="lazy" decoding="async" draggable="false"></button>
     </div>
   </div>
 </section>
